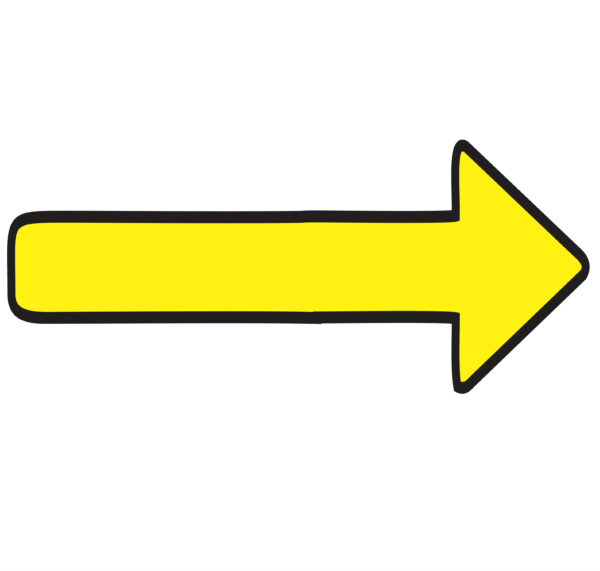
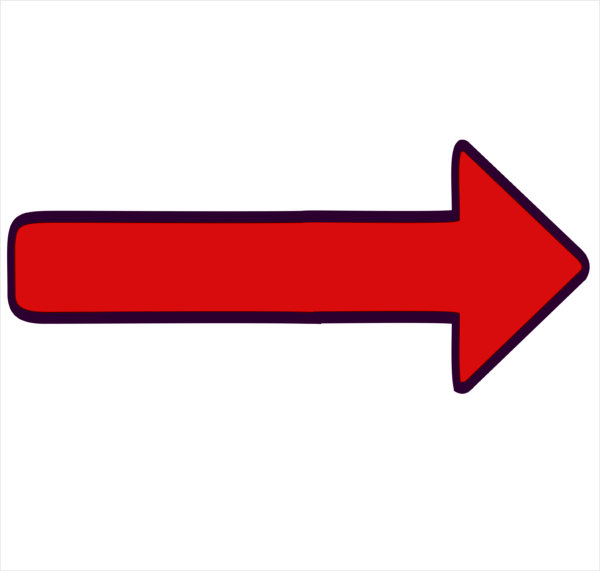
Added color to indicators and made them hidden when near college.

Changed region(s): [[0.0, 0.2382, 0.99, 0.6848]]

diff --git a/core/src/main/java/com/engteam14/yorkpirates/GameScreen.java b/core/src/main/java/com/engteam14/yorkpirates/GameScreen.java
@@ -25,18 +25,17 @@ import com.badlogic.gdx.utils.viewport.FitViewport;
 public class GameScreen extends ScreenAdapter {
     public static YorkPirates game;
     public Player player;
-    public static ScoreManager points;
-    public static FitViewport viewp;
 
+    public static FitViewport viewp;
+    public static ScoreManager points;
     public static ScoreManager loot;
-    private final GameObject testCollider;
 
     public Array<College> colleges;
     public Array<Projectile> projectiles;
 
     private final SpriteBatch HUDBatch;
     private final OrthographicCamera HUDCam;
-    private OrthogonalTiledMapRenderer tiledMapRenderer;
+    private final OrthogonalTiledMapRenderer tiledMapRenderer;
     public static Music instrumental;
 
     private static float elapsedTime = 0;
@@ -53,7 +52,7 @@ public class GameScreen extends ScreenAdapter {
      * @param game  Passes in the base game class for reference.
      */
     public GameScreen(YorkPirates game){
-        this.game = game;
+        GameScreen.game = game;
         followPos = game.camera.position;
 
         // Initialise HUD
@@ -61,8 +60,6 @@ public class GameScreen extends ScreenAdapter {
         HUDCam = new OrthographicCamera();
         HUDCam.setToOrtho(false, game.camera.viewportWidth, game.camera.viewportHeight);
         viewp = new FitViewport( Gdx.graphics.getWidth(), Gdx.graphics.getHeight(), HUDCam); // change this to your needed viewport
-
-
 
         //initialise sound
         instrumental = Gdx.audio.newMusic(Gdx.files.internal("Pirate1_Theme1.ogg"));
@@ -79,8 +76,6 @@ public class GameScreen extends ScreenAdapter {
 
         // Initialise sprites array to be used generating GameObjects
         Array<Texture> sprites = new Array<>();
-     //   Array<Texture> buttons = new Array<>();
-
 
         // Initialise player
         sprites.add(new Texture("ship (4).png"), new Texture("ship (4).png"));
@@ -88,7 +83,6 @@ public class GameScreen extends ScreenAdapter {
         sprites.clear();
 
         // Initialise map texture
-        //map = new Texture("testback.png");
         tiledMap = new TmxMapLoader().load("Pirate12.tmx");
         tiledMapRenderer = new OrthogonalTiledMapRenderer(tiledMap);
 
@@ -102,14 +96,7 @@ public class GameScreen extends ScreenAdapter {
         colleges.add(new College(sprites, 0, player.x-100f, player.y,20f, 40f, "Home",playerTeam,player));
         sprites.clear();
 
-        // Temporary collide-able GameObject for testing purposes
-        sprites.add(new Texture("collider.png"));
-        testCollider = new GameObject(sprites, 0, player.x+20f, player.y+30f, 40f, 20f,playerTeam);
-
         HUD.HUDinitialise();
-
-
-
     }
 
     /**
@@ -158,7 +145,7 @@ public class GameScreen extends ScreenAdapter {
      * Is called once every frame. Used for game calculations that take place before rendering.
      */
     private void update(){
-        // Call update for every individual object
+        // Call updates for every individual object
         player.update(this, game.camera);
         for(int i = 0; i < colleges.size; i++) {
             colleges.get(i).update(this, game.camera);

diff --git a/core/src/main/java/com/engteam14/yorkpirates/College.java b/core/src/main/java/com/engteam14/yorkpirates/College.java
@@ -18,7 +18,7 @@ public class College extends GameObject {
 
     public boolean nearPlayer = false;
     private HealthBar collegeBar;
-    private final Indicator direction;
+    private Indicator direction;
 
     private final String collegeName;
     private static final int pointsGained = 50;
@@ -43,18 +43,17 @@ public class College extends GameObject {
         setMaxHealth(500);
         lastShotFired = 0;
 
-        Array<Texture> sprites = new Array<>();
+        Array<Texture> healthBarSprite = new Array<>();
+        Array<Texture> indicatorSprite = new Array<>();
         if(Objects.equals(team, GameScreen.playerTeam)){
-            sprites.add(new Texture("allyHealthBar.png"));
+            healthBarSprite.add(new Texture("allyHealthBar.png"));
+            indicatorSprite.add(new Texture("homeArrow.png"));
         }else{
-            sprites.add(new Texture("enemyHealthBar.png"));
+            healthBarSprite.add(new Texture("enemyHealthBar.png"));
+            indicatorSprite.add(new Texture("questArrow.png"));
         }
-        collegeBar = new HealthBar(this,sprites);
-        sprites.clear();
-
-
-        sprites.add(new Texture("questArrow.png"));
-        direction = new Indicator(this,player,sprites);
+        collegeBar = new HealthBar(this,healthBarSprite);
+        direction = new Indicator(this,player,indicatorSprite);
     }
 
     /**
@@ -70,6 +69,8 @@ public class College extends GameObject {
         nearPlayer = abs(this.x - playerX) < (detectionRadius*1.5) && abs(this.y - playerY) < detectionRadius;
 
         if(nearPlayer){
+            direction.visible = false;
+
             if(!Objects.equals(team, GameScreen.playerTeam)) { // Checks if the college is an enemy of the player
                 if (TimeUtils.timeSinceMillis(lastShotFired) > shootFrequency){
                     lastShotFired = TimeUtils.millis();
@@ -93,6 +94,8 @@ public class College extends GameObject {
 
                 }
             }
+        }else{
+            direction.visible = true;
         }
     }
 
@@ -111,12 +114,19 @@ public class College extends GameObject {
             if(!Objects.equals(team, GameScreen.playerTeam)){ // Checks if the college is an enemy of the player
                 screen.points.Add(pointsGained);
                 screen.loot.Add(lootGained);
-                Array<Texture> sprites = new Array<>();
-                sprites.add(new Texture("allyHealthBar.png"));
-                collegeBar = new HealthBar(this,sprites);
+
+                Array<Texture> healthBarSprite = new Array<>();
+                Array<Texture> indicatorSprite = new Array<>();
+                healthBarSprite.add(new Texture("allyHealthBar.png"));
+                indicatorSprite.add(new Texture("homeArrow.png"));
+
+                collegeBar.changeImage(healthBarSprite,0);
+                direction.changeImage(indicatorSprite,0);
+
                 team = GameScreen.playerTeam;
             }else{
                 collegeBar = null;
+                direction = null;
                 destroy(screen);
             }
         }

diff --git a/core/src/main/java/com/engteam14/yorkpirates/GameObject.java b/core/src/main/java/com/engteam14/yorkpirates/GameObject.java
@@ -52,15 +52,19 @@ public class GameObject {
      * @param height    The size of the object in the y-axis.
      * @param team      The team the object is on.
      */
-    public GameObject(Array<Texture> frames, float fps, float x, float y, float width, float height, String team){
-        sprite = frames.get(0);
-        anim = new Animation<>(fps==0?0:(1f/fps), frames);
+    GameObject(Array<Texture> frames, float fps, float x, float y, float width, float height, String team){
+        changeImage(frames,fps);
         this.x = x;
         this.y = y;
         this.width = width;
         this.height = height;
         setHitbox();
         this.team = team;
+    }
+
+    void changeImage(Array<Texture> frames, float fps){
+        sprite = frames.get(0);
+        anim = new Animation<>(fps==0?0:(1f/fps), frames);
     }
 
     void setMaxHealth(int mh){
@@ -74,7 +78,7 @@ public class GameObject {
      * @param damage            The damage dealt by the projectile.
      * @param projectileTeam    The team of the projectile.
      */
-    public void takeDamage(GameScreen screen, float damage, String projectileTeam){
+    void takeDamage(GameScreen screen, float damage, String projectileTeam){
         currentHealth -= damage;
     }
 
@@ -91,7 +95,7 @@ public class GameObject {
     /**
      * Sets the object's hitbox, based upon it's x, y, width and height values.
      */
-    private void setHitbox(){
+    void setHitbox(){
         hitbox = new Rectangle();
         updateHitboxPos();
         hitbox.width = width;
@@ -111,7 +115,7 @@ public class GameObject {
      * @param rect  The other object to be checked against.
      * @return      True if overlapping, false otherwise.
      */
-    public boolean overlaps(Rectangle rect){
+    boolean overlaps(Rectangle rect){
         updateHitboxPos();
         return hitbox.overlaps(rect);
     }
@@ -121,7 +125,7 @@ public class GameObject {
      * @param batch         The batch to draw the object within.
      * @param elapsedTime   The current time the game has been running for.
      */
-    public void draw(SpriteBatch batch, float elapsedTime){
+    void draw(SpriteBatch batch, float elapsedTime){
         batch.draw(anim.getKeyFrame(elapsedTime, true), x - width/2, y - height/2, width, height);
     }
 }

diff --git a/core/src/main/java/com/engteam14/yorkpirates/Indicator.java b/core/src/main/java/com/engteam14/yorkpirates/Indicator.java
@@ -16,6 +16,7 @@ public class Indicator extends GameObject{
     private final College college;
 
     private Vector2 gradient;
+    public boolean visible;
 
     public Indicator(College college, Player player, Array<Texture> frames) {
         super(frames, 0, player.x, player.y, 10f, 5f, college.team);
@@ -23,6 +24,7 @@ public class Indicator extends GameObject{
         this.player = player;
         this.college = college;
         gradient = updateGradient();
+        visible = true;
         move();
     }
 
@@ -33,10 +35,12 @@ public class Indicator extends GameObject{
      */
     @Override
     public void draw(SpriteBatch batch, float elapsedTime){
-        Texture frame = sprite;
-        float rotation = (float) Math.toDegrees(Math.atan2(gradient.y,gradient.x));
+        if(visible){
+            Texture frame = sprite;
+            float rotation = (float) Math.toDegrees(Math.atan2(gradient.y,gradient.x));
 
-        batch.draw(frame, x - width/2, y - height/2, width/2, height/2, width, height, 1f, 1f, rotation, 0, 0, frame.getWidth(), frame.getHeight(), false, false);
+            batch.draw(frame, x - width/2, y - height/2, width/2, height/2, width, height, 1f, 1f, rotation, 0, 0, frame.getWidth(), frame.getHeight(), false, false);
+        }
     }
 
     /**

diff --git a/core/src/main/java/com/engteam14/yorkpirates/Player.java b/core/src/main/java/com/engteam14/yorkpirates/Player.java
@@ -107,7 +107,7 @@ public class Player extends GameObject {
      * @param y     The amount to move the object within the y-axis.
      */
     @Override
-    void move(float x, float y){
+    public void move(float x, float y){
         this.x += x * Gdx.graphics.getDeltaTime();
         this.y += y * Gdx.graphics.getDeltaTime();
         playerHealth.move(this.x, this.y + height/2 + 2f);

diff --git a/core/src/main/java/com/engteam14/yorkpirates/HealthBar.java b/core/src/main/java/com/engteam14/yorkpirates/HealthBar.java
@@ -40,7 +40,7 @@ public class HealthBar extends GameObject {
      * @param y     The amount to move the object within the y-axis.
      */
     @Override
-    void move(float x, float y){
+    public void move(float x, float y){
         this.x = x;
         this.y = y;
     }
